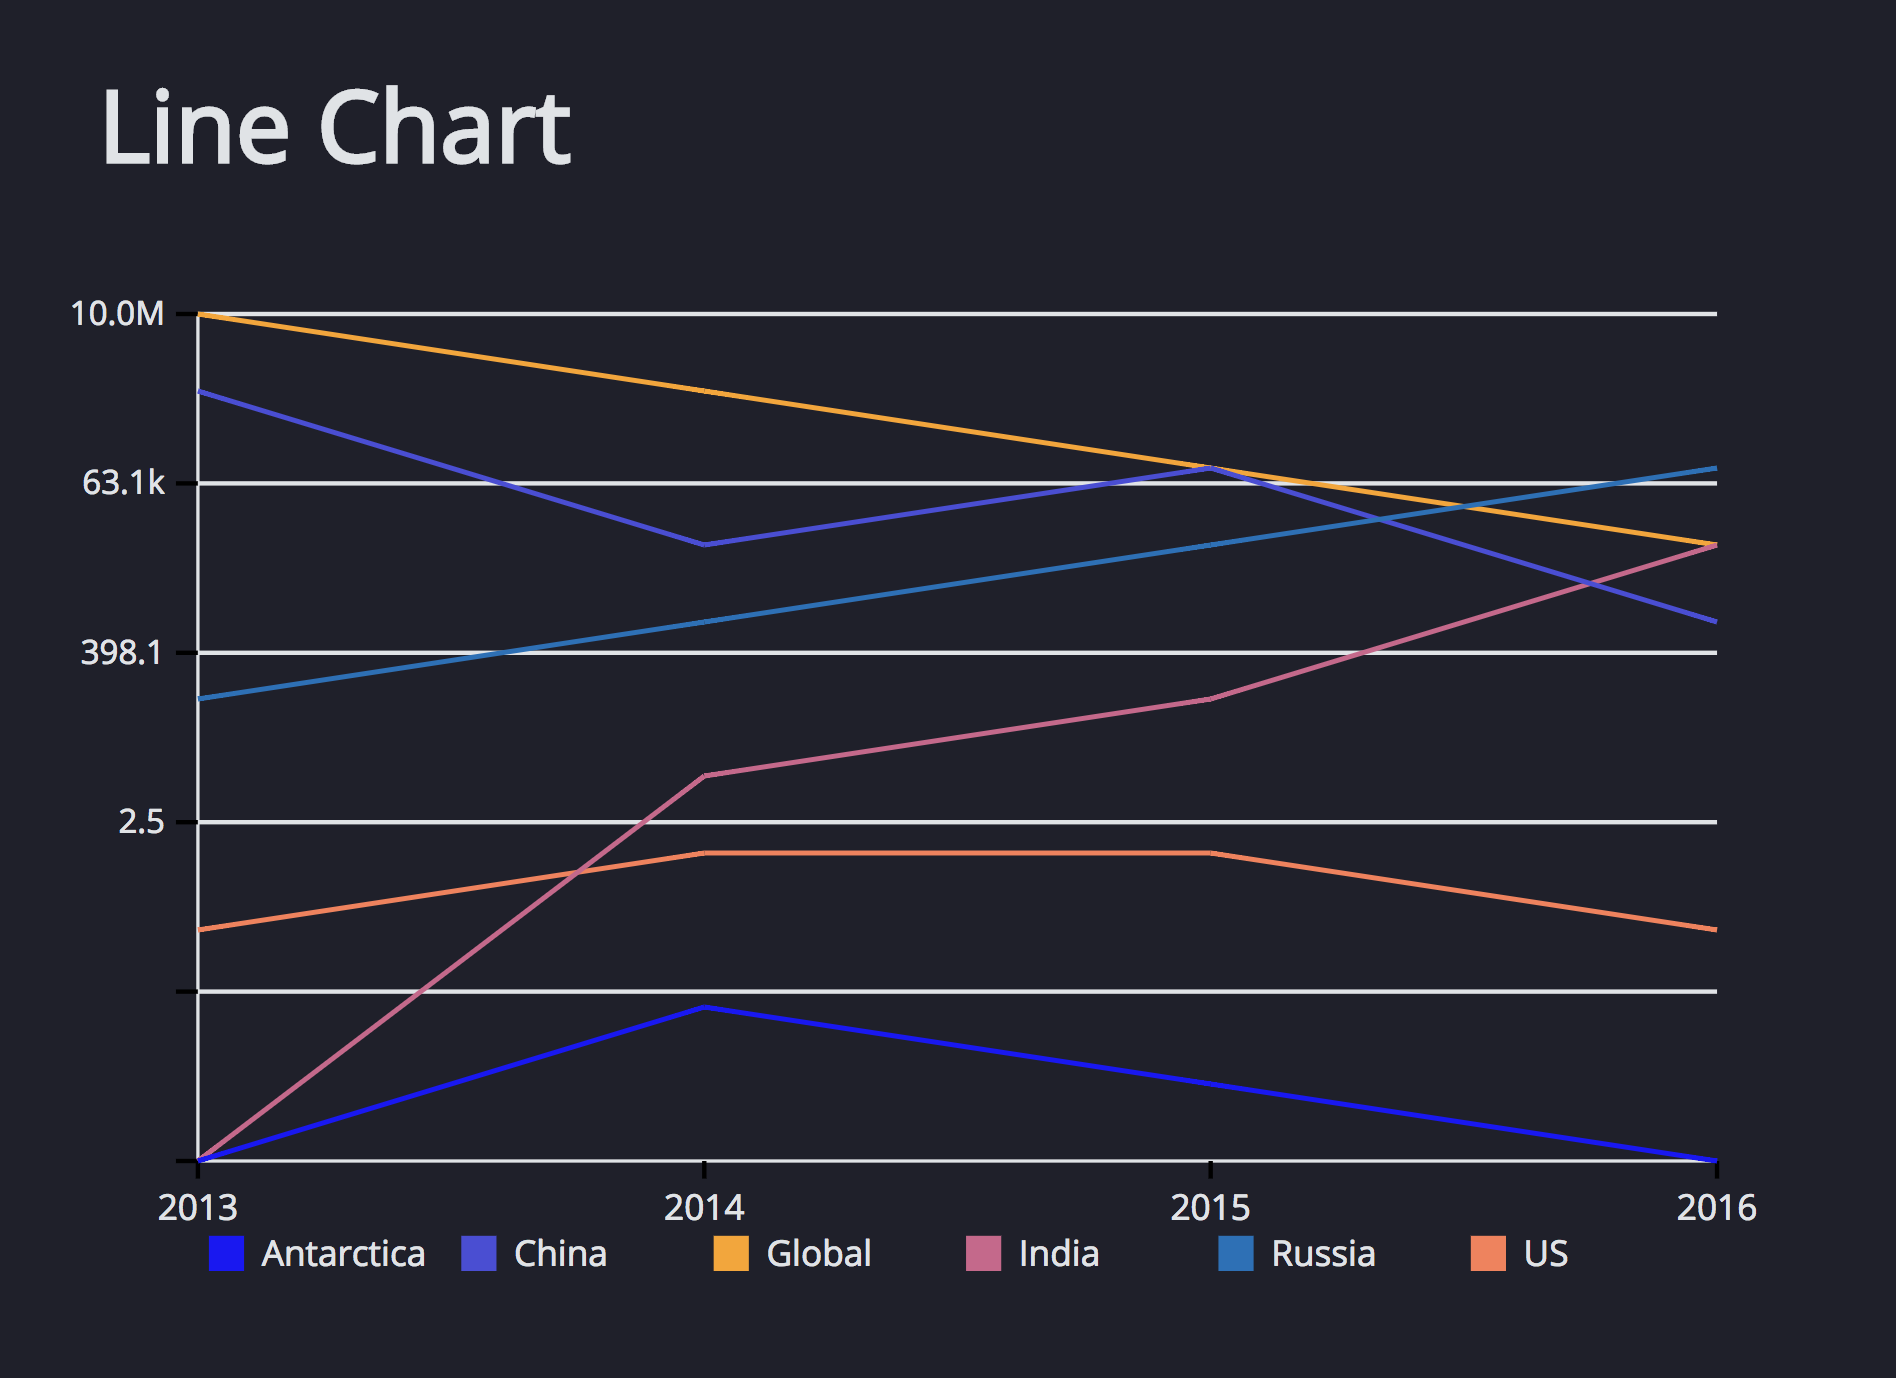
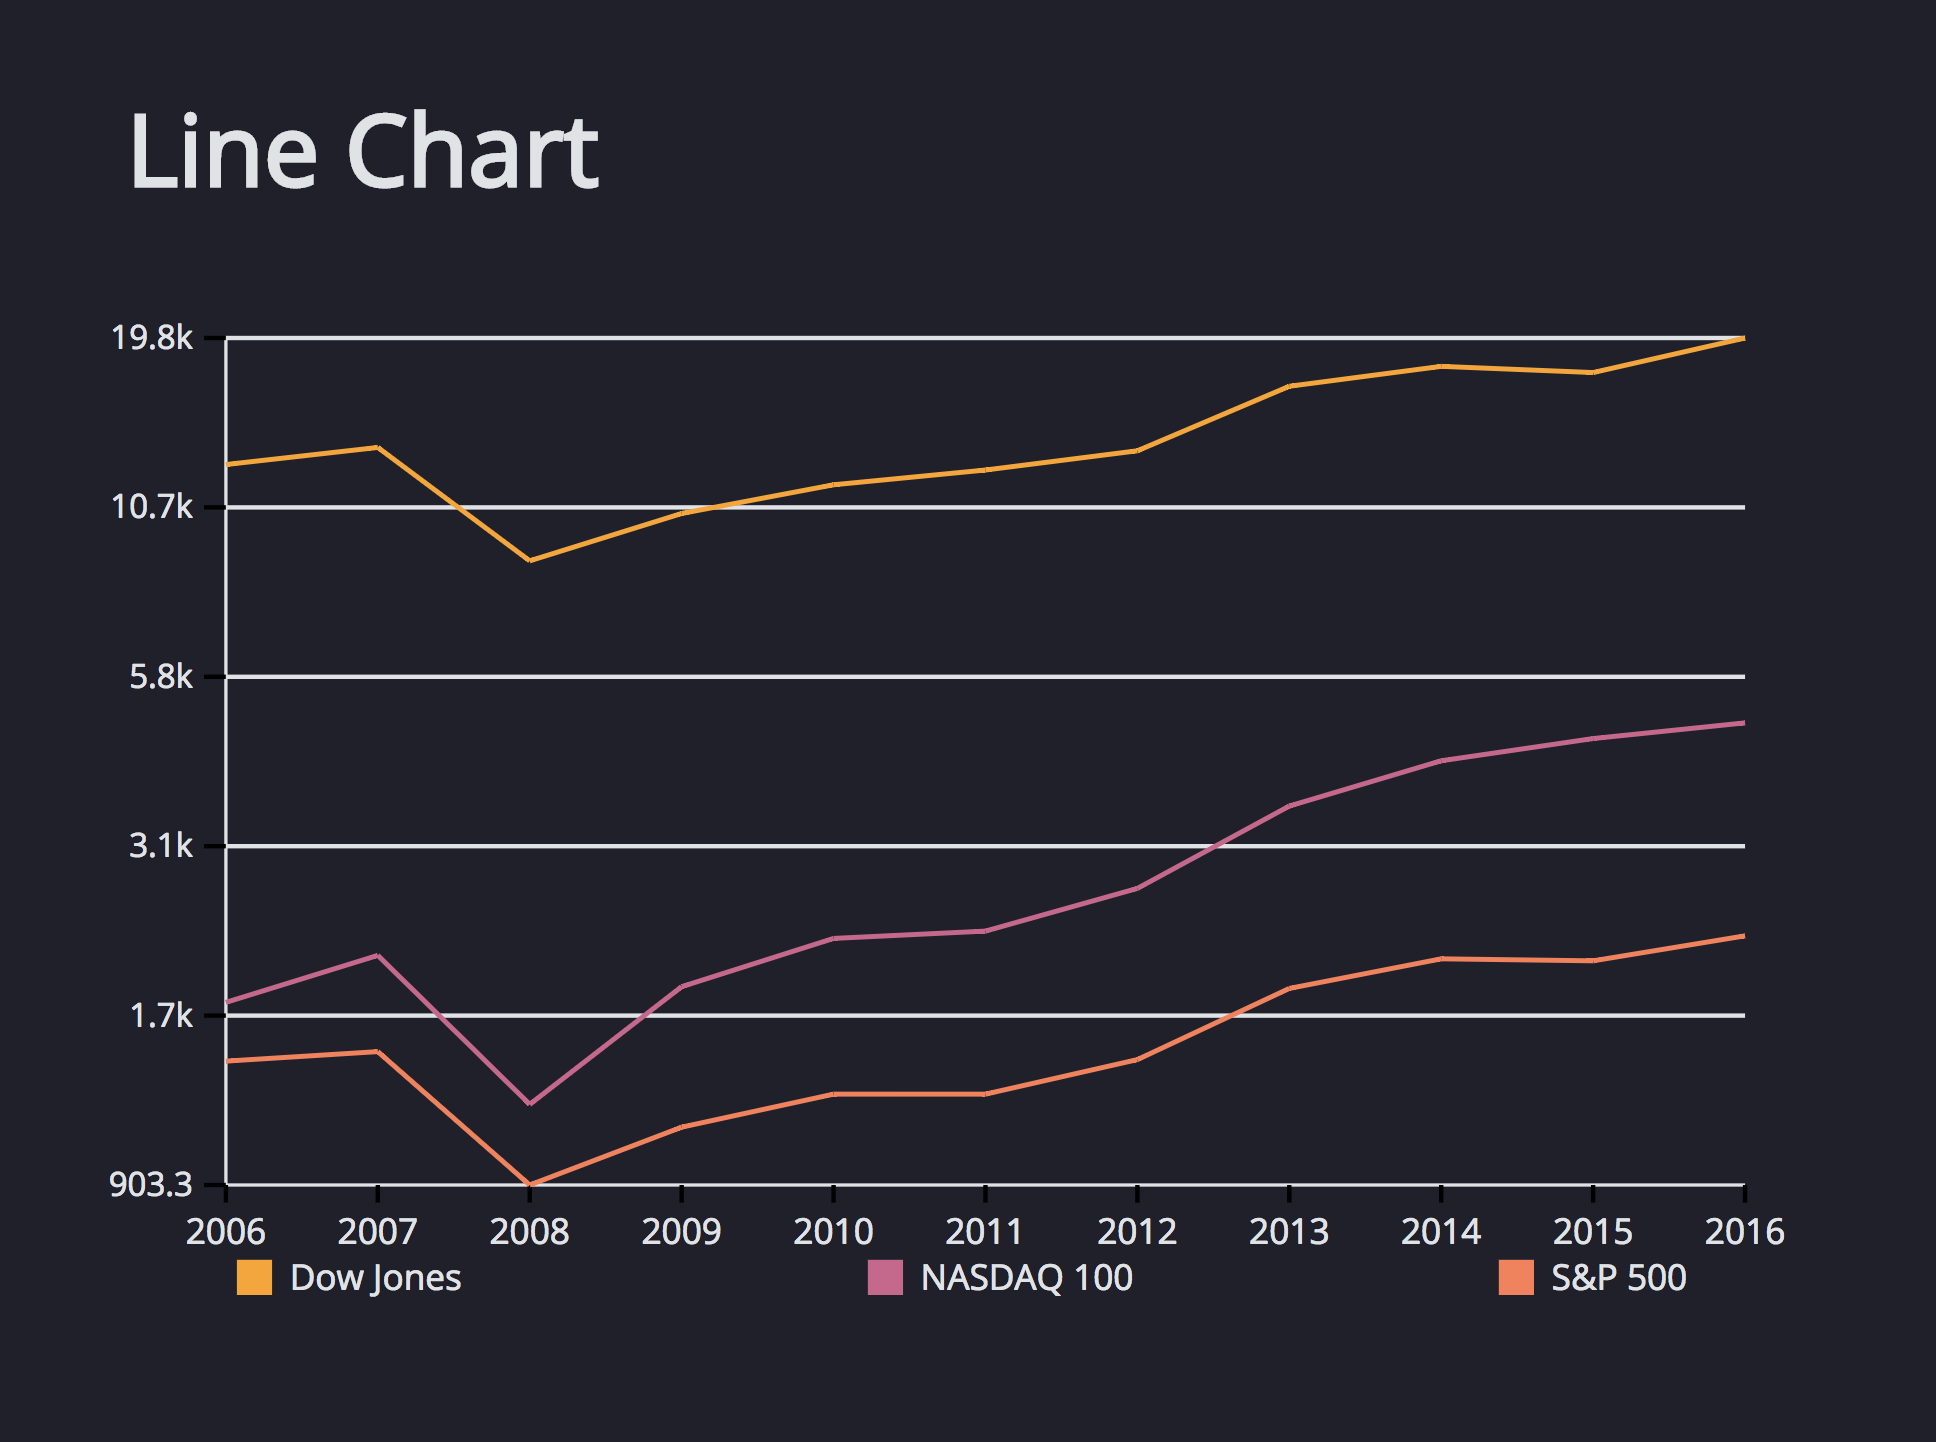
example update

Changed region(s): [[0.0311, 0.2184, 0.9335, 0.9361], [0.0311, 0.0624, 0.3112, 0.156]]

diff --git a/examples/components/LineExample.jsx b/examples/components/LineExample.jsx
@@ -10,38 +10,47 @@ class LineExample extends React.Component {
     super(props)
     this.state = {
       optionList: [
-        {optionName: "data", optionType: "data", keyList:["location", "year"], weightKey:"population", initialValue: [
-          {location: "Global", year: 2013, population: 10000000},
-          {location: "Global", year: 2014, population: 1000000},
-          {location: "Global", year: 2015, population: 100000},
-          {location: "Global", year: 2016, population: 10000},
-          {location: "US", year: 2013, population: 0.1},
-          {location: "US", year: 2014, population: 1},
-          {location: "US", year: 2015, population: 1},
-          {location: "US", year: 2016, population: 0.1},
-          {location: "India", year: 2013, population: 0.0001},
-          {location: "India", year: 2014, population: 10},
-          {location: "India", year: 2015, population: 100},
-          {location: "India", year: 2016, population: 10000},
-          {location: "China", year: 2013, population: 1000000},
-          {location: "China", year: 2014, population: 10000},
-          {location: "China", year: 2015, population: 100000},
-          {location: "China", year: 2016, population: 1000},
-          {location: "Russia", year: 2013, population: 100},
-          {location: "Russia", year: 2014, population: 1000},
-          {location: "Russia", year: 2015, population: 10000},
-          {location: "Russia", year: 2016, population: 100000},
-          {location: "Antarctica", year: 2013, population: 0.0001},
-          {location: "Antarctica", year: 2014, population: 0.01},
-          {location: "Antarctica", year: 2015, population: 0.001},
-          {location: "Antarctica", year: 2016, population: 0.0001},
+        {optionName: "data", optionType: "data", keyList:["index", "year"], weightKey:"value", initialValue: [
+          {index: "Dow Jones", year: 2006, value: 12463.15},
+          {index: "Dow Jones", year: 2007, value: 13264.82},
+          {index: "Dow Jones", year: 2008, value: 8776.39},
+          {index: "Dow Jones", year: 2009, value: 10428.05},
+          {index: "Dow Jones", year: 2010, value: 11577.51},
+          {index: "Dow Jones", year: 2011, value: 12217.56},
+          {index: "Dow Jones", year: 2012, value: 13104.14},
+          {index: "Dow Jones", year: 2013, value: 16576.66},
+          {index: "Dow Jones", year: 2014, value: 17823.07},
+          {index: "Dow Jones", year: 2015, value: 17425.03},
+          {index: "Dow Jones", year: 2016, value: 19762.6},
+          {index: "S&P 500", year: 2006, value: 1418.3},
+          {index: "S&P 500", year: 2007, value: 1468.36},
+          {index: "S&P 500", year: 2008, value: 903.25},
+          {index: "S&P 500", year: 2009, value: 1115.1},
+          {index: "S&P 500", year: 2010, value: 1257.64},
+          {index: "S&P 500", year: 2011, value: 1257.6},
+          {index: "S&P 500", year: 2012, value: 1426.19},
+          {index: "S&P 500", year: 2013, value: 1848.36},
+          {index: "S&P 500", year: 2014, value: 2058.9},
+          {index: "S&P 500", year: 2015, value: 2043.94},
+          {index: "S&P 500", year: 2016, value: 2238.83},
+          {index: "NASDAQ 100", year: 2006, value: 1756.9},
+          {index: "NASDAQ 100", year: 2007, value: 2084.93},
+          {index: "NASDAQ 100", year: 2008, value: 1211.65},
+          {index: "NASDAQ 100", year: 2009, value: 1860.31},
+          {index: "NASDAQ 100", year: 2010, value: 2217.86},
+          {index: "NASDAQ 100", year: 2011, value: 2277.83},
+          {index: "NASDAQ 100", year: 2012, value: 2660.93},
+          {index: "NASDAQ 100", year: 2013, value: 3592},
+          {index: "NASDAQ 100", year: 2014, value: 4236.28},
+          {index: "NASDAQ 100", year: 2015, value: 4593.27},
+          {index: "NASDAQ 100", year: 2016, value: 4863.62},
         ]},
         {optionName: "width", name: "Width", optionType: "field", input: "string", initialValue: "100%"},
         {optionName: "height", name: "Height", optionType: "field", input: "string", initialValue: 500},
         {optionName: "yScale", name: "Scale", optionType: "state", states: ["lin", "log"], initialValue: "log"},
-        {optionName: "groupKey", name: "Group By", optionType: "hidden", initialValue: "location"},
+        {optionName: "groupKey", name: "Group By", optionType: "hidden", initialValue: "index"},
         {optionName: "xKey", name: "X Axis", optionType: "hidden", initialValue: "year"},
-        {optionName: "yKey", name: "Y Axis", optionType: "hidden", initialValue: "population"},
+        {optionName: "yKey", name: "Y Axis", optionType: "hidden", initialValue: "value"},
       ],
       lineScale: "log",
     }

diff --git a/readMe.md b/readMe.md
@@ -20,40 +20,54 @@ The only *required* input is properly formatted data.
 
 ### Basic Usage
 In the simplest case, just supply data (as a Javascript array) and specify the
-keys for the titles and values:
+keys associated with the values:
+
+![example](docs/img/line-chart-photo.png)
 
 ```javascript
 render() {
-  let populations = [
-    {location: "Global", year: 2010, population: 6916183482},
-    {location: "Global", year: 2011, population: 6997998760},
-    {location: "Global", year: 2012, population: 7080072417},
-    {location: "Global", year: 2013, population: 7162119434},
-    {location: "Global", year: 2014, population: 7243784121},
-    {location: "Global", year: 2015, population: 7324782225},
-    {location: "Global", year: 2016, population: 7404976783},
-    {location: "US", year: 2010, population: 310559000},
-    {location: "US", year: 2011, population: 312917100},
-    {location: "US", year: 2012, population: 315219700},
-    {location: "US", year: 2013, population: 317474000},
-    {location: "US", year: 2014, population: 319849000},
-    {location: "US", year: 2015, population: 322060100},
-    {location: "US", year: 2016, population: 324304400},
-    {location: "India", year: 2010, population: 1186000000},
-    {location: "India", year: 2011, population: 1210570000},
-    {location: "India", year: 2012, population: 1213370000},
-    {location: "India", year: 2013, population: 1223000000},
-    {location: "India", year: 2014, population: 1267000000},
-    {location: "India", year: 2015, population: 1283000000},
-    {location: "India", year: 2016, population: 1299000000},
-  ]
+	let markets = [
+		{index: "Dow Jones", year: 2006, value: 12463.15},
+		{index: "Dow Jones", year: 2007, value: 13264.82},
+		{index: "Dow Jones", year: 2008, value: 8776.39},
+		{index: "Dow Jones", year: 2009, value: 10428.05},
+		{index: "Dow Jones", year: 2010, value: 11577.51},
+		{index: "Dow Jones", year: 2011, value: 12217.56},
+		{index: "Dow Jones", year: 2012, value: 13104.14},
+		{index: "Dow Jones", year: 2013, value: 16576.66},
+		{index: "Dow Jones", year: 2014, value: 17823.07},
+		{index: "Dow Jones", year: 2015, value: 17425.03},
+		{index: "Dow Jones", year: 2016, value: 19762.6},
+		{index: "S&P 500", year: 2006, value: 1418.3},
+		{index: "S&P 500", year: 2007, value: 1468.36},
+		{index: "S&P 500", year: 2008, value: 903.25},
+		{index: "S&P 500", year: 2009, value: 1115.1},
+		{index: "S&P 500", year: 2010, value: 1257.64},
+		{index: "S&P 500", year: 2011, value: 1257.6},
+		{index: "S&P 500", year: 2012, value: 1426.19},
+		{index: "S&P 500", year: 2013, value: 1848.36},
+		{index: "S&P 500", year: 2014, value: 2058.9},
+		{index: "S&P 500", year: 2015, value: 2043.94},
+		{index: "S&P 500", year: 2016, value: 2238.83},
+		{index: "NASDAQ 100", year: 2006, value: 1756.9},
+		{index: "NASDAQ 100", year: 2007, value: 2084.93},
+		{index: "NASDAQ 100", year: 2008, value: 1211.65},
+		{index: "NASDAQ 100", year: 2009, value: 1860.31},
+		{index: "NASDAQ 100", year: 2010, value: 2217.86},
+		{index: "NASDAQ 100", year: 2011, value: 2277.83},
+		{index: "NASDAQ 100", year: 2012, value: 2660.93},
+		{index: "NASDAQ 100", year: 2013, value: 3592},
+		{index: "NASDAQ 100", year: 2014, value: 4236.28},
+		{index: "NASDAQ 100", year: 2015, value: 4593.27},
+		{index: "NASDAQ 100", year: 2016, value: 4863.62},
+	]
 
-  return(
-    <LineChart data={populations}
-      groupKey="location"
-      xKey="year"
-      yKey="population" />
-  )
+	return(
+		<LineChart data={markets}
+		groupKey="index"
+		xKey="year"
+		yKey="value" />
+	)
 }
 ```
 
@@ -74,9 +88,10 @@ will then be calculated as a proportion of the parent container.
 
 ```javascript
 render() {
-  return(
-    <LineChart data={populations} width="50%" height="200px" />
-  )
+
+	return(
+		<LineChart data={markets} width="50%" />
+	)
 }
 ```
 
@@ -116,9 +131,9 @@ colorMe(i, group) {
 }
 
 render() {
-  return(
-    <LineChart data={populations} color={this.colorMe} />
-  )
+	return(
+		<LineChart data={markets} color={this.colorMe} />
+	)
 }
 ```
 
@@ -128,7 +143,7 @@ Tooltips can display more specific information about a data series.
 ```javascript
 render() {
   return(
-    <LineChart data={populations} tooltip="true" tooltipColor="light" />
+    <LineChart data={markets} tooltipColor="light" />
   )
 }
 ```
@@ -151,7 +166,8 @@ fillTooltip(pointData, lineData){
 
 render() {
   return(
-    <LineChart data={populations} tooltipContents={this.fillTooltip} />
+    <LineChart data={markets}
+      tooltipContents={this.fillTooltip}/>
   )
 }
 ```
@@ -182,7 +198,8 @@ render() {
 ```
 
 ### Axis Customization
-Users can customize graph axes in several different ways.
+Replot LineCharts allow for incredible customization of the graph axis. A complete
+explanation of axis customization can be found below:
 
 #### Titles
 Title props accept strings to display in the appropriate location on the graph. To compensate for the inclusion of a title, graph content will be condensed, but the overall size of the component will stay constant.
@@ -257,7 +274,7 @@ let style = {
 
 render() {
   return(
-    <LineChart data={populations} axisStyle={style} />
+    <LineChart data={markets} axisStyle={style}/>
   )
 }
 ```
